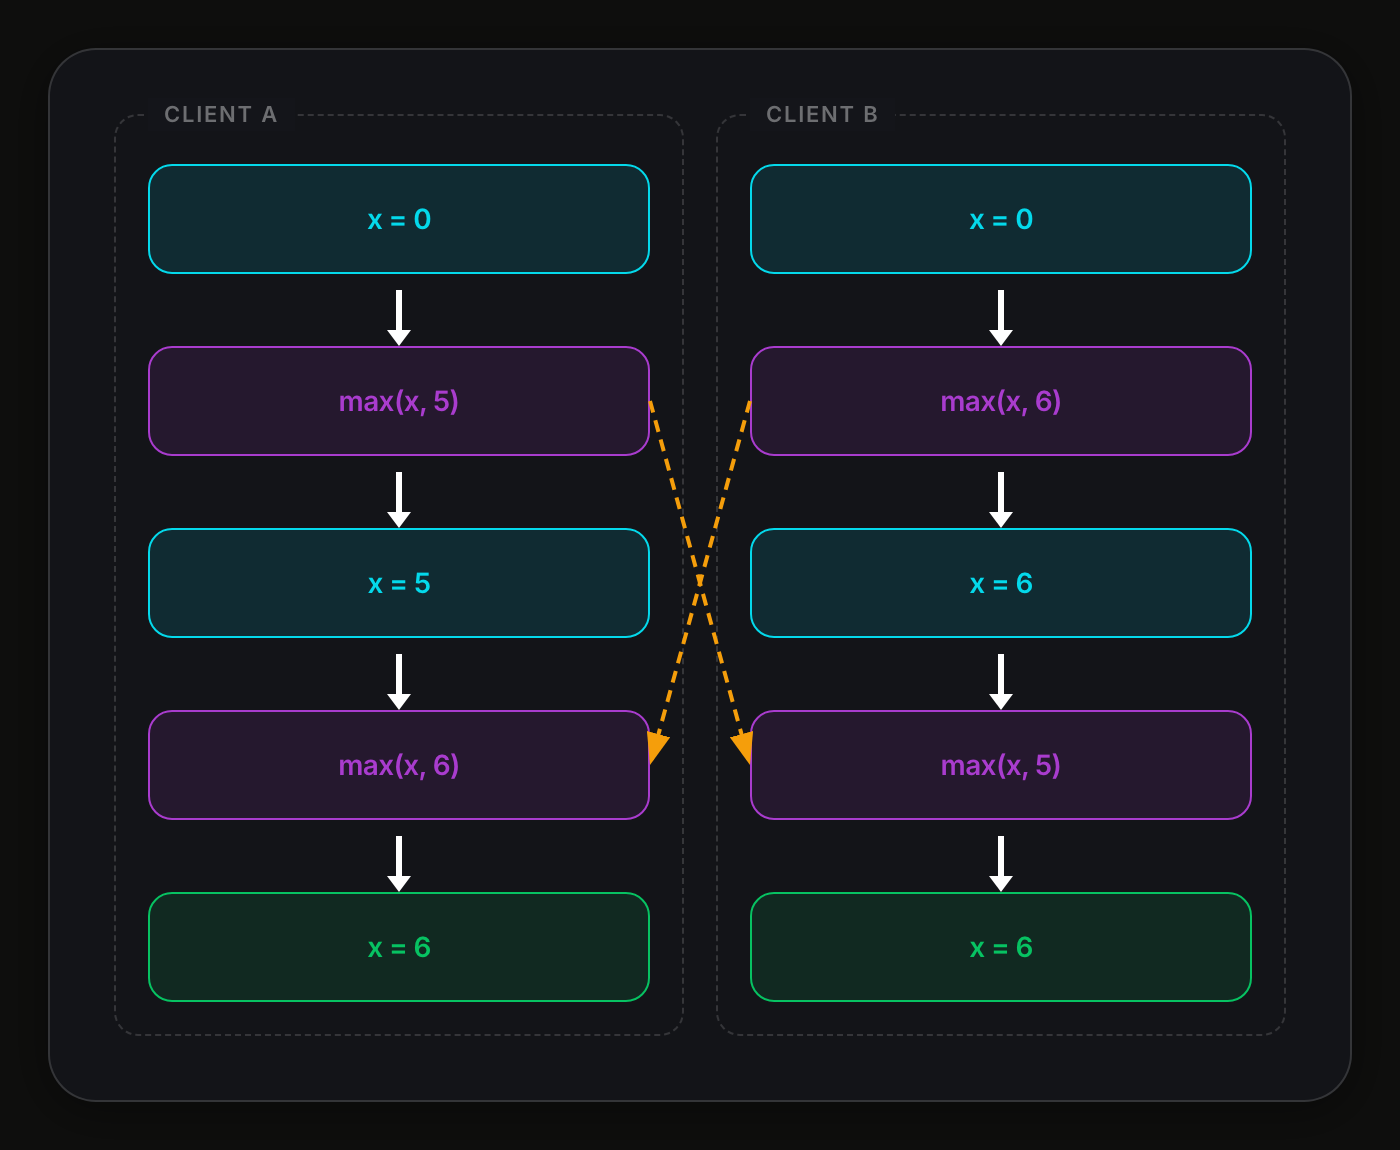
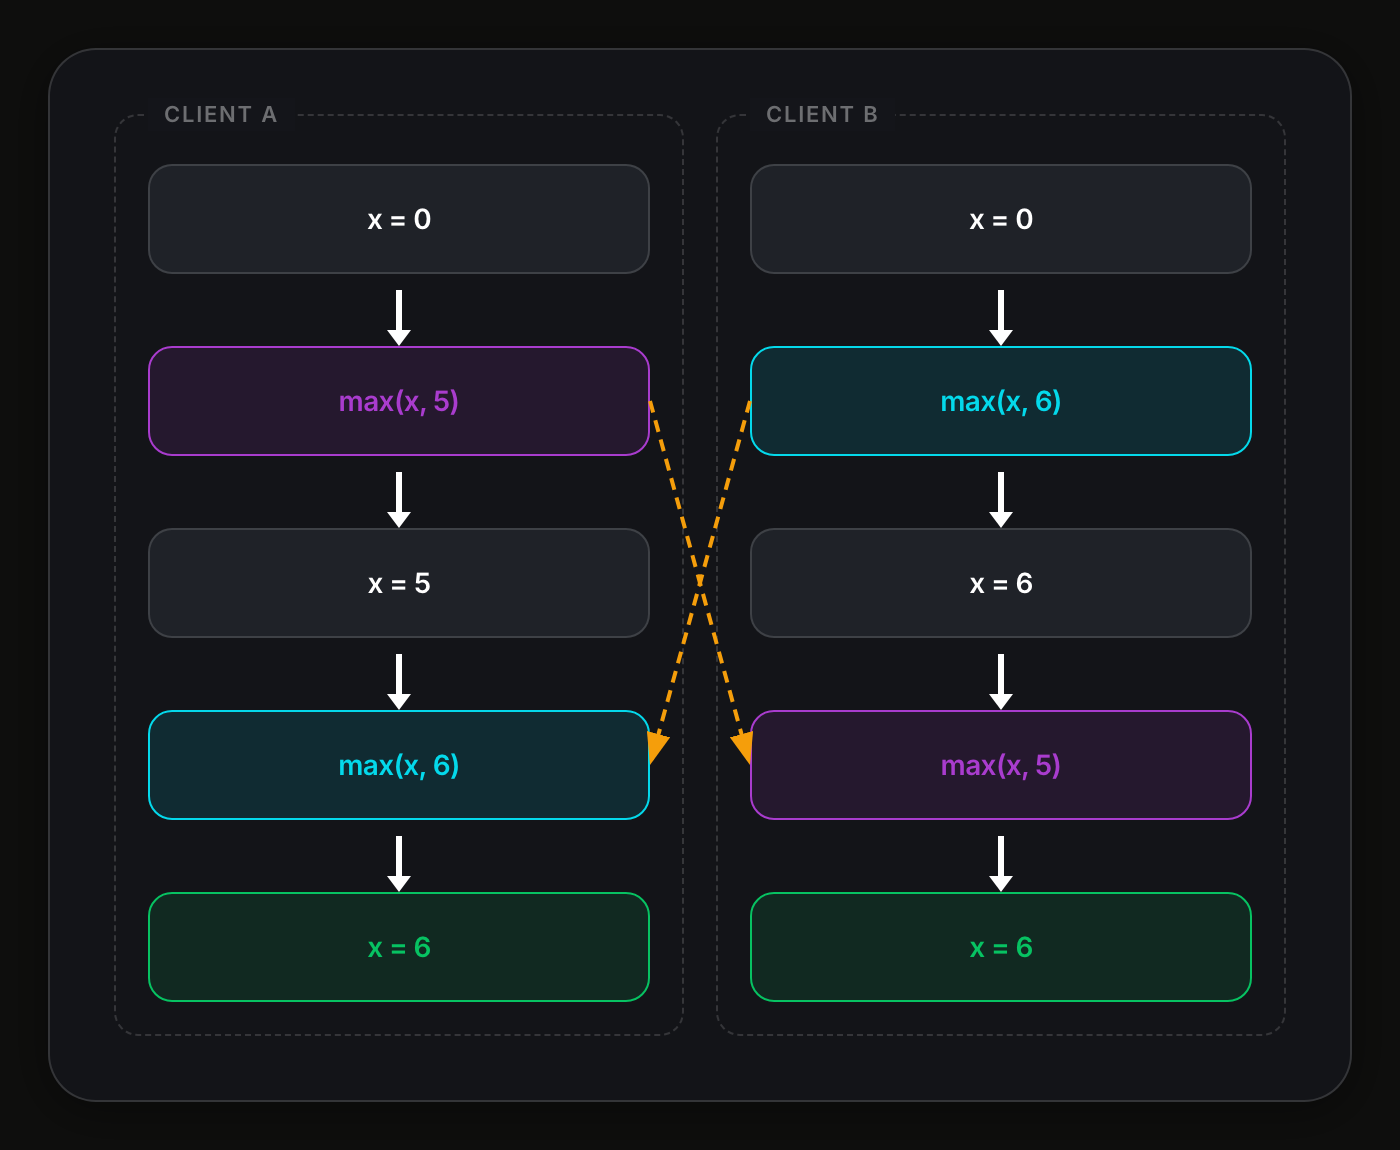
rebuild: crdt-max colours the matching operations, not the x values

diff --git a/diagrams/pages/crdt-max-operations.html b/diagrams/pages/crdt-max-operations.html
@@ -199,7 +199,7 @@
           <div class="side-wrapper">
             <span class="side-wrapper-label">Client A</span>
             <div class="col-flow">
-              <div class="box accent-cyan">
+              <div class="box">
                 <div class="box-title">x = 0</div>
               </div>
               <div class="v-connector"></div>
@@ -207,11 +207,11 @@
                 <div class="box-title">max(x, 5)</div>
               </div>
               <div class="v-connector"></div>
-              <div class="box accent-cyan">
+              <div class="box">
                 <div class="box-title">x = 5</div>
               </div>
               <div class="v-connector"></div>
-              <div class="box accent-purple" data-arrow="a-max6">
+              <div class="box accent-cyan" data-arrow="a-max6">
                 <div class="box-title">max(x, 6)</div>
               </div>
               <div class="v-connector"></div>
@@ -225,15 +225,15 @@
           <div class="side-wrapper">
             <span class="side-wrapper-label">Client B</span>
             <div class="col-flow">
-              <div class="box accent-cyan">
+              <div class="box">
                 <div class="box-title">x = 0</div>
               </div>
               <div class="v-connector"></div>
-              <div class="box accent-purple" data-arrow="b-max6">
+              <div class="box accent-cyan" data-arrow="b-max6">
                 <div class="box-title">max(x, 6)</div>
               </div>
               <div class="v-connector"></div>
-              <div class="box accent-cyan">
+              <div class="box">
                 <div class="box-title">x = 6</div>
               </div>
               <div class="v-connector"></div>
